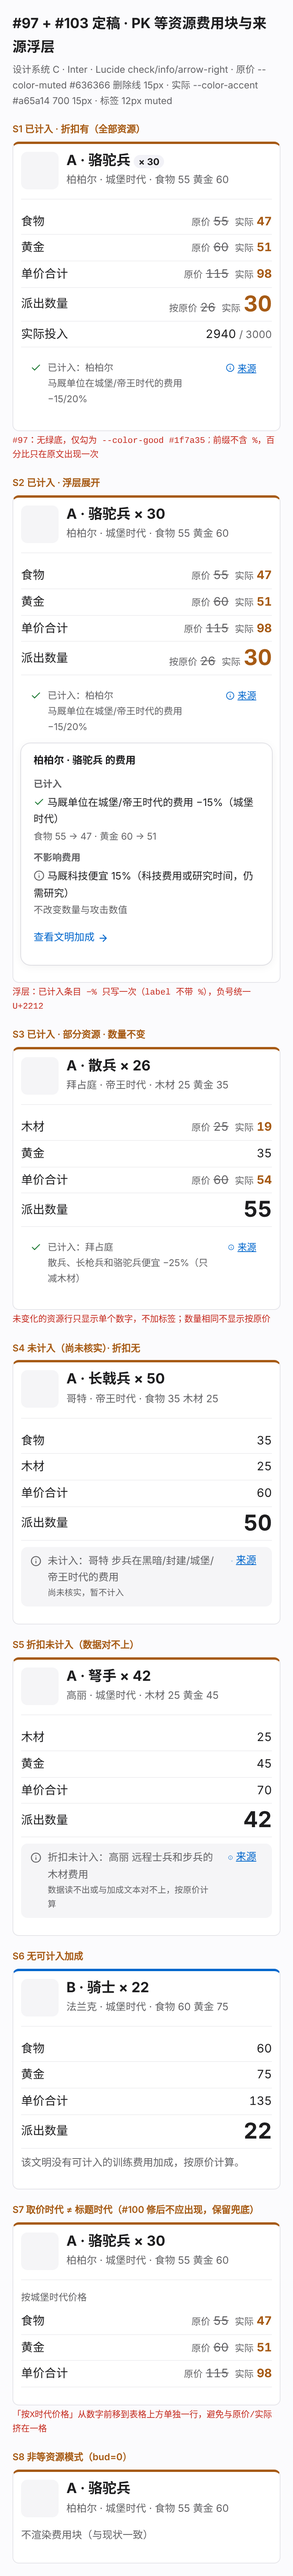
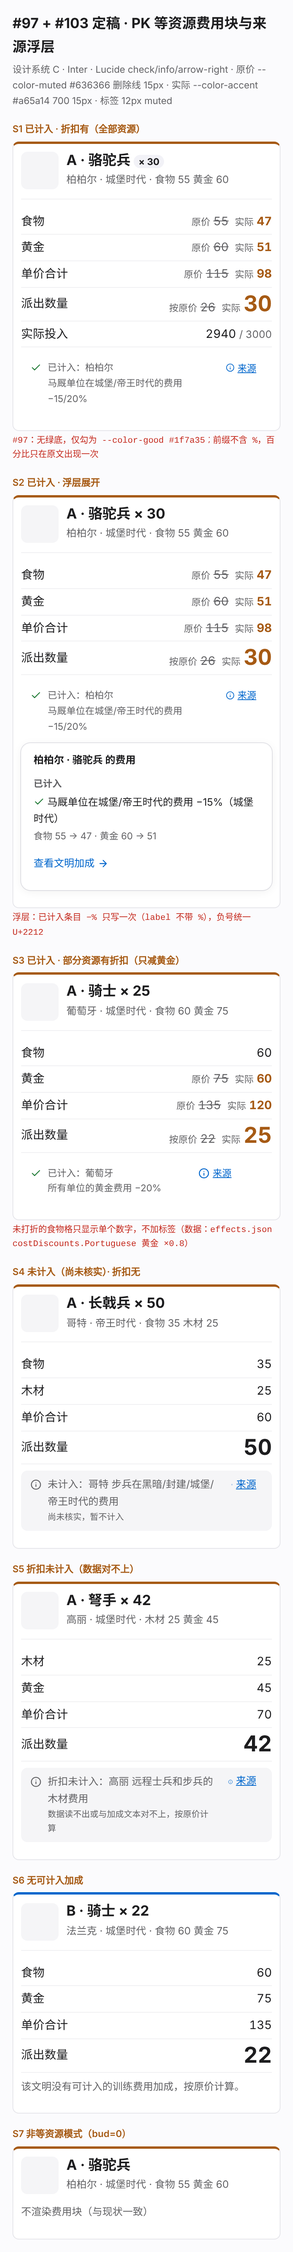
docs(#97): 按评审修改 v0.6.0 定稿（删按时代价格行、#100 定口径、S3 换葡萄牙骑士）

diff --git a/docs/design/mockups/issue97-103-pk-discount/mockup.html b/docs/design/mockups/issue97-103-pk-discount/mockup.html
@@ -13,7 +13,6 @@ table{width:100%;border-collapse:collapse}td{padding:4px 0;border-bottom:1px sol
 td:last-child{text-align:right;font-variant-numeric:tabular-nums}
 
 .pk-cost{margin:12px 0;padding-top:12px;border-top:1px solid var(--color-line)}
-.pk-basis{display:block;color:var(--color-muted);font-size:12px;margin-bottom:4px}
 .lbl{font-size:12px;color:var(--color-muted);margin:0 4px 0 8px}.lbl:first-child{margin-left:0}
 .was{color:var(--color-muted)}.now{color:var(--color-accent);font-weight:700}
 .pk-count td:last-child b{font-size:28px;line-height:1.15}
@@ -27,4 +26,4 @@ td:last-child{text-align:right;font-variant-numeric:tabular-nums}
 .pk-pop h4{margin:0 0 8px;font-size:13px}.pk-pop h5{margin:8px 0 4px;font-size:12px;color:var(--color-muted);font-weight:600}
 .pk-pop p{margin:0 0 4px}.pk-pop p .ic{color:var(--color-good)}.pk-pop p.u .ic{color:var(--color-muted)}.pk-pop small{display:block;color:var(--color-muted);font-size:12px}
 .pk-pop a{display:inline-flex;align-items:center;gap:4px;min-height:44px;color:var(--color-link)}
-</style><h1>#97 + #103 定稿 · PK 等资源费用块与来源浮层</h1><p class="sub">设计系统 C · Inter · Lucide check/info/arrow-right · 原价 --color-muted #636366 删除线 15px · 实际 --color-accent #a65a14 700 15px · 标签 12px muted</p><div class="grid"><div><p class="st">S1 已计入 · 折扣有（全部资源）</p><div class="duel-side"><div class="duel-head"><div class="av"></div><div><h3>A · 骆驼兵 <span style="font-size:12px;background:var(--color-tag);padding:1px 6px;border-radius:999px">× 30</span></h3><span class="note">柏柏尔 · 城堡时代 · 食物 55 黄金 60</span></div></div><div class="pk-cost"><table><tr><td>食物</td><td><span class="lbl">原价</span><s class="was">55</s><span class="lbl">实际</span><b class="now">47</b></td></tr><tr><td>黄金</td><td><span class="lbl">原价</span><s class="was">60</s><span class="lbl">实际</span><b class="now">51</b></td></tr><tr><td>单价合计</td><td><span class="lbl">原价</span><s class="was">115</s><span class="lbl">实际</span><b class="now">98</b></td></tr><tr class=pk-count><td>派出数量</td><td><span class="lbl">按原价</span><s class="was">26</s><span class="lbl">实际</span><b class="now">30</b></td></tr><tr><td>实际投入</td><td>2940 <small class=note>/ 3000</small></td></tr></table><div class="pk-line pk-applied"><svg class="ic" viewBox="0 0 24 24"><path d="M20 6 9 17l-5-5"/></svg><span>已计入：柏柏尔<small class="pk-orig">马厩单位在城堡/帝王时代的费用 −15/20%</small></span><span class="linkish"><svg class="ic" viewBox="0 0 24 24"><circle cx="12" cy="12" r="10"/><path d="M12 16v-4M12 8h.01"/></svg>来源</span></div></div></div><div class=anno>#97：无绿底，仅勾为 --color-good #1f7a35；前缀不含 %，百分比只在原文出现一次</div></div><div><p class="st">S2 已计入 · 浮层展开</p><div class="duel-side"><div class="duel-head"><div class="av"></div><div><h3>A · 骆驼兵 × 30</h3><span class="note">柏柏尔 · 城堡时代 · 食物 55 黄金 60</span></div></div><div class="pk-cost"><table><tr><td>食物</td><td><span class="lbl">原价</span><s class="was">55</s><span class="lbl">实际</span><b class="now">47</b></td></tr><tr><td>黄金</td><td><span class="lbl">原价</span><s class="was">60</s><span class="lbl">实际</span><b class="now">51</b></td></tr><tr><td>单价合计</td><td><span class="lbl">原价</span><s class="was">115</s><span class="lbl">实际</span><b class="now">98</b></td></tr><tr class=pk-count><td>派出数量</td><td><span class="lbl">按原价</span><s class="was">26</s><span class="lbl">实际</span><b class="now">30</b></td></tr></table><div class="pk-line pk-applied"><svg class="ic" viewBox="0 0 24 24"><path d="M20 6 9 17l-5-5"/></svg><span>已计入：柏柏尔<small class="pk-orig">马厩单位在城堡/帝王时代的费用 −15/20%</small></span><span class="linkish"><svg class="ic" viewBox="0 0 24 24"><circle cx="12" cy="12" r="10"/><path d="M12 16v-4M12 8h.01"/></svg>来源</span></div><div class="pk-pop"><h4>柏柏尔 · 骆驼兵 的费用</h4><h5>已计入</h5><p><svg class="ic" viewBox="0 0 24 24"><path d="M20 6 9 17l-5-5"/></svg> 马厩单位在城堡/帝王时代的费用 −15%（城堡时代）<small>食物 55 → 47 · 黄金 60 → 51</small></p><h5>不影响费用</h5><p class="u"><svg class="ic" viewBox="0 0 24 24"><circle cx="12" cy="12" r="10"/><path d="M12 16v-4M12 8h.01"/></svg> 马厩科技便宜 15%（科技费用或研究时间，仍需研究）<small>不改变数量与攻击数值</small></p><a>查看文明加成 <svg class="ic" viewBox="0 0 24 24"><path d="M5 12h14M12 5l7 7-7 7"/></svg></a></div></div></div><div class=anno>浮层：已计入条目 −% 只写一次（label 不带 %），负号统一 U+2212</div></div><div><p class="st">S3 已计入 · 部分资源 · 数量不变</p><div class="duel-side"><div class="duel-head"><div class="av"></div><div><h3>A · 散兵 × 26</h3><span class="note">拜占庭 · 帝王时代 · 木材 25 黄金 35</span></div></div><div class="pk-cost"><table><tr><td>木材</td><td><span class="lbl">原价</span><s class="was">25</s><span class="lbl">实际</span><b class="now">19</b></td></tr><tr><td>黄金</td><td>35</td></tr><tr><td>单价合计</td><td><span class="lbl">原价</span><s class="was">60</s><span class="lbl">实际</span><b class="now">54</b></td></tr><tr class=pk-count><td>派出数量</td><td><b>55</b></td></tr></table><div class="pk-line pk-applied"><svg class="ic" viewBox="0 0 24 24"><path d="M20 6 9 17l-5-5"/></svg><span>已计入：拜占庭<small class="pk-orig">散兵、长枪兵和骆驼兵便宜 −25%（只减木材）</small></span><span class="linkish"><svg class="ic" viewBox="0 0 24 24"><circle cx="12" cy="12" r="10"/><path d="M12 16v-4M12 8h.01"/></svg>来源</span></div></div></div><div class=anno>未变化的资源行只显示单个数字，不加标签；数量相同不显示按原价</div></div><div><p class="st">S4 未计入（尚未核实）· 折扣无</p><div class="duel-side"><div class="duel-head"><div class="av"></div><div><h3>A · 长戟兵 × 50</h3><span class="note">哥特 · 帝王时代 · 食物 35 木材 25</span></div></div><div class="pk-cost"><table><tr><td>食物</td><td>35</td></tr><tr><td>木材</td><td>25</td></tr><tr><td>单价合计</td><td>60</td></tr><tr class=pk-count><td>派出数量</td><td><b>50</b></td></tr></table><div class="pk-line pk-unverified"><svg class="ic" viewBox="0 0 24 24"><circle cx="12" cy="12" r="10"/><path d="M12 16v-4M12 8h.01"/></svg><span>未计入：哥特 步兵在黑暗/封建/城堡/帝王时代的费用<small>尚未核实，暂不计入</small></span><span class="linkish"><svg class="ic" viewBox="0 0 24 24"><circle cx="12" cy="12" r="10"/><path d="M12 16v-4M12 8h.01"/></svg>来源</span></div></div></div></div><div><p class="st">S5 折扣未计入（数据对不上）</p><div class="duel-side"><div class="duel-head"><div class="av"></div><div><h3>A · 弩手 × 42</h3><span class="note">高丽 · 城堡时代 · 木材 25 黄金 45</span></div></div><div class="pk-cost"><table><tr><td>木材</td><td>25</td></tr><tr><td>黄金</td><td>45</td></tr><tr><td>单价合计</td><td>70</td></tr><tr class=pk-count><td>派出数量</td><td><b>42</b></td></tr></table><div class="pk-line pk-unverified"><svg class="ic" viewBox="0 0 24 24"><circle cx="12" cy="12" r="10"/><path d="M12 16v-4M12 8h.01"/></svg><span>折扣未计入：高丽 远程士兵和步兵的木材费用<small>数据读不出或与加成文本对不上，按原价计算</small></span><span class="linkish"><svg class="ic" viewBox="0 0 24 24"><circle cx="12" cy="12" r="10"/><path d="M12 16v-4M12 8h.01"/></svg>来源</span></div></div></div></div><div><p class="st">S6 无可计入加成</p><div class="duel-side side-b"><div class="duel-head"><div class="av"></div><div><h3>B · 骑士 × 22</h3><span class="note">法兰克 · 城堡时代 · 食物 60 黄金 75</span></div></div><div class="pk-cost"><table><tr><td>食物</td><td>60</td></tr><tr><td>黄金</td><td>75</td></tr><tr><td>单价合计</td><td>135</td></tr><tr class=pk-count><td>派出数量</td><td><b>22</b></td></tr></table><p class="note" style="margin:8px 0 0">该文明没有可计入的训练费用加成，按原价计算。</p></div></div></div><div><p class="st">S7 取价时代 ≠ 标题时代（#100 修后不应出现，保留兜底）</p><div class="duel-side"><div class="duel-head"><div class="av"></div><div><h3>A · 骆驼兵 × 30</h3><span class="note">柏柏尔 · 城堡时代 · 食物 55 黄金 60</span></div></div><div class="pk-cost"><span class="pk-basis">按城堡时代价格</span><table><tr><td>食物</td><td><span class="lbl">原价</span><s class="was">55</s><span class="lbl">实际</span><b class="now">47</b></td></tr><tr><td>黄金</td><td><span class="lbl">原价</span><s class="was">60</s><span class="lbl">实际</span><b class="now">51</b></td></tr><tr><td>单价合计</td><td><span class="lbl">原价</span><s class="was">115</s><span class="lbl">实际</span><b class="now">98</b></td></tr></table></div></div><div class=anno>「按X时代价格」从数字前移到表格上方单独一行，避免与原价/实际挤在一格</div></div><div><p class="st">S8 非等资源模式（bud=0）</p><div class="duel-side"><div class="duel-head"><div class="av"></div><div><h3>A · 骆驼兵</h3><span class="note">柏柏尔 · 城堡时代 · 食物 55 黄金 60</span></div></div><p class="note">不渲染费用块（与现状一致）</p></div></div></div>
+</style><h1>#97 + #103 定稿 · PK 等资源费用块与来源浮层</h1><p class="sub">设计系统 C · Inter · Lucide check/info/arrow-right · 原价 --color-muted #636366 删除线 15px · 实际 --color-accent #a65a14 700 15px · 标签 12px muted</p><div class="grid"><div><p class="st">S1 已计入 · 折扣有（全部资源）</p><div class="duel-side"><div class="duel-head"><div class="av"></div><div><h3>A · 骆驼兵 <span style="font-size:12px;background:var(--color-tag);padding:1px 6px;border-radius:999px">× 30</span></h3><span class="note">柏柏尔 · 城堡时代 · 食物 55 黄金 60</span></div></div><div class="pk-cost"><table><tr><td>食物</td><td><span class="lbl">原价</span><s class="was">55</s><span class="lbl">实际</span><b class="now">47</b></td></tr><tr><td>黄金</td><td><span class="lbl">原价</span><s class="was">60</s><span class="lbl">实际</span><b class="now">51</b></td></tr><tr><td>单价合计</td><td><span class="lbl">原价</span><s class="was">115</s><span class="lbl">实际</span><b class="now">98</b></td></tr><tr class=pk-count><td>派出数量</td><td><span class="lbl">按原价</span><s class="was">26</s><span class="lbl">实际</span><b class="now">30</b></td></tr><tr><td>实际投入</td><td>2940 <small class=note>/ 3000</small></td></tr></table><div class="pk-line pk-applied"><svg class="ic" viewBox="0 0 24 24"><path d="M20 6 9 17l-5-5"/></svg><span>已计入：柏柏尔<small class="pk-orig">马厩单位在城堡/帝王时代的费用 −15/20%</small></span><span class="linkish"><svg class="ic" viewBox="0 0 24 24"><circle cx="12" cy="12" r="10"/><path d="M12 16v-4M12 8h.01"/></svg>来源</span></div></div></div><div class=anno>#97：无绿底，仅勾为 --color-good #1f7a35；前缀不含 %，百分比只在原文出现一次</div></div><div><p class="st">S2 已计入 · 浮层展开</p><div class="duel-side"><div class="duel-head"><div class="av"></div><div><h3>A · 骆驼兵 × 30</h3><span class="note">柏柏尔 · 城堡时代 · 食物 55 黄金 60</span></div></div><div class="pk-cost"><table><tr><td>食物</td><td><span class="lbl">原价</span><s class="was">55</s><span class="lbl">实际</span><b class="now">47</b></td></tr><tr><td>黄金</td><td><span class="lbl">原价</span><s class="was">60</s><span class="lbl">实际</span><b class="now">51</b></td></tr><tr><td>单价合计</td><td><span class="lbl">原价</span><s class="was">115</s><span class="lbl">实际</span><b class="now">98</b></td></tr><tr class=pk-count><td>派出数量</td><td><span class="lbl">按原价</span><s class="was">26</s><span class="lbl">实际</span><b class="now">30</b></td></tr></table><div class="pk-line pk-applied"><svg class="ic" viewBox="0 0 24 24"><path d="M20 6 9 17l-5-5"/></svg><span>已计入：柏柏尔<small class="pk-orig">马厩单位在城堡/帝王时代的费用 −15/20%</small></span><span class="linkish"><svg class="ic" viewBox="0 0 24 24"><circle cx="12" cy="12" r="10"/><path d="M12 16v-4M12 8h.01"/></svg>来源</span></div><div class="pk-pop"><h4>柏柏尔 · 骆驼兵 的费用</h4><h5>已计入</h5><p><svg class="ic" viewBox="0 0 24 24"><path d="M20 6 9 17l-5-5"/></svg> 马厩单位在城堡/帝王时代的费用 −15%（城堡时代）<small>食物 55 → 47 · 黄金 60 → 51</small></p><a>查看文明加成 <svg class="ic" viewBox="0 0 24 24"><path d="M5 12h14M12 5l7 7-7 7"/></svg></a></div></div></div><div class=anno>浮层：已计入条目 −% 只写一次（label 不带 %），负号统一 U+2212</div></div><div><p class="st">S3 已计入 · 部分资源有折扣（只减黄金）</p><div class="duel-side"><div class="duel-head"><div class="av"></div><div><h3>A · 骑士 × 25</h3><span class="note">葡萄牙 · 城堡时代 · 食物 60 黄金 75</span></div></div><div class="pk-cost"><table><tr><td>食物</td><td>60</td></tr><tr><td>黄金</td><td><span class="lbl">原价</span><s class="was">75</s><span class="lbl">实际</span><b class="now">60</b></td></tr><tr><td>单价合计</td><td><span class="lbl">原价</span><s class="was">135</s><span class="lbl">实际</span><b class="now">120</b></td></tr><tr class=pk-count><td>派出数量</td><td><span class="lbl">按原价</span><s class="was">22</s><span class="lbl">实际</span><b class="now">25</b></td></tr></table><div class="pk-line pk-applied"><svg class="ic" viewBox="0 0 24 24"><path d="M20 6 9 17l-5-5"/></svg><span>已计入：葡萄牙<small class="pk-orig">所有单位的黄金费用 −20%</small></span><span class="linkish"><svg class="ic" viewBox="0 0 24 24"><circle cx="12" cy="12" r="10"/><path d="M12 16v-4M12 8h.01"/></svg>来源</span></div></div></div><div class=anno>未打折的食物格只显示单个数字，不加标签（数据：effects.json costDiscounts.Portuguese 黄金 ×0.8）</div></div><div><p class="st">S4 未计入（尚未核实）· 折扣无</p><div class="duel-side"><div class="duel-head"><div class="av"></div><div><h3>A · 长戟兵 × 50</h3><span class="note">哥特 · 帝王时代 · 食物 35 木材 25</span></div></div><div class="pk-cost"><table><tr><td>食物</td><td>35</td></tr><tr><td>木材</td><td>25</td></tr><tr><td>单价合计</td><td>60</td></tr><tr class=pk-count><td>派出数量</td><td><b>50</b></td></tr></table><div class="pk-line pk-unverified"><svg class="ic" viewBox="0 0 24 24"><circle cx="12" cy="12" r="10"/><path d="M12 16v-4M12 8h.01"/></svg><span>未计入：哥特 步兵在黑暗/封建/城堡/帝王时代的费用<small>尚未核实，暂不计入</small></span><span class="linkish"><svg class="ic" viewBox="0 0 24 24"><circle cx="12" cy="12" r="10"/><path d="M12 16v-4M12 8h.01"/></svg>来源</span></div></div></div></div><div><p class="st">S5 折扣未计入（数据对不上）</p><div class="duel-side"><div class="duel-head"><div class="av"></div><div><h3>A · 弩手 × 42</h3><span class="note">高丽 · 城堡时代 · 木材 25 黄金 45</span></div></div><div class="pk-cost"><table><tr><td>木材</td><td>25</td></tr><tr><td>黄金</td><td>45</td></tr><tr><td>单价合计</td><td>70</td></tr><tr class=pk-count><td>派出数量</td><td><b>42</b></td></tr></table><div class="pk-line pk-unverified"><svg class="ic" viewBox="0 0 24 24"><circle cx="12" cy="12" r="10"/><path d="M12 16v-4M12 8h.01"/></svg><span>折扣未计入：高丽 远程士兵和步兵的木材费用<small>数据读不出或与加成文本对不上，按原价计算</small></span><span class="linkish"><svg class="ic" viewBox="0 0 24 24"><circle cx="12" cy="12" r="10"/><path d="M12 16v-4M12 8h.01"/></svg>来源</span></div></div></div></div><div><p class="st">S6 无可计入加成</p><div class="duel-side side-b"><div class="duel-head"><div class="av"></div><div><h3>B · 骑士 × 22</h3><span class="note">法兰克 · 城堡时代 · 食物 60 黄金 75</span></div></div><div class="pk-cost"><table><tr><td>食物</td><td>60</td></tr><tr><td>黄金</td><td>75</td></tr><tr><td>单价合计</td><td>135</td></tr><tr class=pk-count><td>派出数量</td><td><b>22</b></td></tr></table><p class="note" style="margin:8px 0 0">该文明没有可计入的训练费用加成，按原价计算。</p></div></div></div><div><p class="st">S7 非等资源模式（bud=0）</p><div class="duel-side"><div class="duel-head"><div class="av"></div><div><h3>A · 骆驼兵</h3><span class="note">柏柏尔 · 城堡时代 · 食物 55 黄金 60</span></div></div><p class="note">不渲染费用块（与现状一致）</p></div></div></div>

diff --git a/docs/design/mockups/issue100-duel-title/mockup.html b/docs/design/mockups/issue100-duel-title/mockup.html
@@ -11,4 +11,4 @@ h1{font-size:18px;margin:0 0 4px}.sub{color:var(--color-muted);font-size:12px;ma
 .anno{font-size:11px;color:#c4281c;font-family:monospace;margin-top:4px}
 table{width:100%;border-collapse:collapse}td{padding:4px 0;border-bottom:1px solid var(--color-line);font-size:var(--fs-body);white-space:nowrap}
 td:last-child{text-align:right;font-variant-numeric:tabular-nums}
-.age{color:var(--color-text-2);font-weight:600}.res{white-space:nowrap}.duel-head>div:last-child{min-width:0}.duel-head .note{display:block;overflow-wrap:anywhere}</style><h1>#100 定稿 · PK 对决卡标题时代</h1><p class="sub">格式：「文明 · 时代 · 费用」，时代取自该侧 URL 参数（与计价同源）。时代文字 13px 600 --color-text-2 #3a3a3c；其余 13px --color-muted #636366；标题 h3 18px 700 --color-text</p><div class="grid"><div><p class="st">T1 参数 .1.</p><div class="note" style="font-family:monospace;font-size:11px;margin-bottom:4px">a=…Franks.1.…</div><div class="duel-side"><div class="duel-head"><div class="av"></div><div><h3>A · 民兵</h3><span class="note">法兰克 · <span class="age">黑暗时代</span> · <span class="res">食物 60 黄金 20</span></span></div></div></div></div><div><p class="st">T2 参数 .2.</p><div class="note" style="font-family:monospace;font-size:11px;margin-bottom:4px">a=…Franks.2.…</div><div class="duel-side"><div class="duel-head"><div class="av"></div><div><h3>A · 长矛兵</h3><span class="note">法兰克 · <span class="age">封建时代</span> · <span class="res">食物 35 木材 25</span></span></div></div></div></div><div><p class="st">T3 参数 .3.</p><div class="note" style="font-family:monospace;font-size:11px;margin-bottom:4px">a=…Franks.3.…</div><div class="duel-side"><div class="duel-head"><div class="av"></div><div><h3>A · 骑士</h3><span class="note">法兰克 · <span class="age">城堡时代</span> · <span class="res">食物 60 黄金 75</span></span></div></div></div></div><div><p class="st">T4 参数 .4.</p><div class="note" style="font-family:monospace;font-size:11px;margin-bottom:4px">a=…Franks.4.…</div><div class="duel-side"><div class="duel-head"><div class="av"></div><div><h3>A · 骑士</h3><span class="note">法兰克 · <span class="age">帝王时代</span> · <span class="res">食物 60 黄金 75</span></span></div></div></div></div><div><p class="st">T5 两侧时代不同 · A</p><div class="note" style="font-family:monospace;font-size:11px;margin-bottom:4px">a=38.Franks.3.f.</div><div class="duel-side"><div class="duel-head"><div class="av"></div><div><h3>A · 骑士</h3><span class="note">法兰克 · <span class="age">城堡时代</span> · <span class="res">食物 60 黄金 75</span></span></div></div></div></div><div><p class="st">T5 两侧时代不同 · B</p><div class="note" style="font-family:monospace;font-size:11px;margin-bottom:4px">b=329.Berbers.4.f.</div><div class="duel-side side-b"><div class="duel-head"><div class="av"></div><div><h3>B · 骆驼兵</h3><span class="note">柏柏尔 · <span class="age">帝王时代</span> · <span class="res">食物 55 黄金 60</span></span></div></div></div><div class=anno>A/B 各显示自己的时代，不互相影响</div></div><div><p class="st">T6 无时代参数（ageSet=false）</p><div class="note" style="font-family:monospace;font-size:11px;margin-bottom:4px">a=38.Franks..f.</div><div class="duel-side"><div class="duel-head"><div class="av"></div><div><h3>A · 骑士</h3><span class="note">法兰克 · <span class="age">帝王时代</span> · <span class="res">食物 60 黄金 75</span></span></div></div></div><div class=anno>缺省按帝王时代，与计价一致</div></div><div><p class="st">T7 上限：最长组合（360 不溢出）</p><div class="note" style="font-family:monospace;font-size:11px;margin-bottom:4px"></div><div class="duel-side side-b"><div class="duel-head"><div class="av"></div><div><h3>B · 精锐骆驼弓骑兵 <span style="font-size:12px;background:var(--color-tag);padding:1px 6px;border-radius:999px">× 99</span></h3><span class="note">美洲印第安（霍德诺肖尼） · <span class="age">帝王时代</span> · <span class="res">食物 50 木材 50 黄金 60</span></span></div></div></div><div class=anno>副标题可折行（overflow-wrap:anywhere），资源组整体不拆；h3 不出现横向滚动</div></div></div>
+.age{color:var(--color-text-2);font-weight:600}.res{white-space:nowrap}.duel-head>div:last-child{min-width:0}.duel-head .note{display:block;overflow-wrap:anywhere}</style><h1>#100 定稿 · PK 对决卡标题时代</h1><p class="sub">格式：「文明 · 时代 · 费用」，时代取自该侧 URL 参数；标题、价格、战斗模拟三者同一时代。时代文字 13px 600 --color-text-2 #3a3a3c；其余 13px --color-muted #636366；标题 h3 18px 700 --color-text</p><div class="grid"><div><p class="st">T1 参数 .1.</p><div class="note" style="font-family:monospace;font-size:11px;margin-bottom:4px">a=…Franks.1.…</div><div class="duel-side"><div class="duel-head"><div class="av"></div><div><h3>A · 民兵</h3><span class="note">法兰克 · <span class="age">黑暗时代</span> · <span class="res">食物 50 黄金 20</span></span></div></div></div></div><div><p class="st">T2 参数 .2.</p><div class="note" style="font-family:monospace;font-size:11px;margin-bottom:4px">a=…Franks.2.…</div><div class="duel-side"><div class="duel-head"><div class="av"></div><div><h3>A · 长矛兵</h3><span class="note">法兰克 · <span class="age">封建时代</span> · <span class="res">食物 35 木材 25</span></span></div></div></div></div><div><p class="st">T3 参数 .3.</p><div class="note" style="font-family:monospace;font-size:11px;margin-bottom:4px">a=…Franks.3.…</div><div class="duel-side"><div class="duel-head"><div class="av"></div><div><h3>A · 骑士</h3><span class="note">法兰克 · <span class="age">城堡时代</span> · <span class="res">食物 60 黄金 75</span></span></div></div></div></div><div><p class="st">T4 参数 .4.</p><div class="note" style="font-family:monospace;font-size:11px;margin-bottom:4px">a=…Franks.4.…</div><div class="duel-side"><div class="duel-head"><div class="av"></div><div><h3>A · 骑士</h3><span class="note">法兰克 · <span class="age">帝王时代</span> · <span class="res">食物 60 黄金 75</span></span></div></div></div></div><div><p class="st">T5 两侧时代不同 · A</p><div class="note" style="font-family:monospace;font-size:11px;margin-bottom:4px">a=38.Franks.3.f.</div><div class="duel-side"><div class="duel-head"><div class="av"></div><div><h3>A · 骑士</h3><span class="note">法兰克 · <span class="age">城堡时代</span> · <span class="res">食物 60 黄金 75</span></span></div></div></div></div><div><p class="st">T5 两侧时代不同 · B</p><div class="note" style="font-family:monospace;font-size:11px;margin-bottom:4px">b=329.Berbers.4.f.</div><div class="duel-side side-b"><div class="duel-head"><div class="av"></div><div><h3>B · 骆驼兵</h3><span class="note">柏柏尔 · <span class="age">帝王时代</span> · <span class="res">食物 55 黄金 60</span></span></div></div></div><div class=anno>A/B 各显示自己的时代，不互相影响</div></div><div><p class="st">T6 无时代参数（ageSet=false）</p><div class="note" style="font-family:monospace;font-size:11px;margin-bottom:4px">a=38.Franks..f.</div><div class="duel-side"><div class="duel-head"><div class="av"></div><div><h3>A · 骑士</h3><span class="note">法兰克 · <span class="age">帝王时代</span> · <span class="res">食物 60 黄金 75</span></span></div></div></div><div class=anno>缺省：标题帝王时代，价格与模拟也按帝王时代</div></div><div><p class="st">T7 上限：最长组合（360 不溢出）</p><div class="note" style="font-family:monospace;font-size:11px;margin-bottom:4px"></div><div class="duel-side side-b"><div class="duel-head"><div class="av"></div><div><h3>B · 精锐施里瓦姆沙骑手 <span style="font-size:12px;background:var(--color-tag);padding:1px 6px;border-radius:999px">× 99</span></h3><span class="note">瞿折罗 · <span class="age">帝王时代</span> · <span class="res">食物 70 黄金 30</span></span></div></div></div><div class=anno>副标题可折行（overflow-wrap:anywhere），资源组整体不拆；h3 不出现横向滚动</div></div></div>

diff --git a/docs/design/mockups/issue100-duel-title/README.md b/docs/design/mockups/issue100-duel-title/README.md
@@ -3,7 +3,13 @@
 `mockup.html` 复刻 `.duel-head`；截图 `duel-title-{360,375,390,1280}.png`（移动端 2x）。
 
 ## 文案
-副标题格式不变：`{文明} · {时代} · {费用}`。**时代取该侧 URL 参数**（`.1.` 黑暗时代 / `.2.` 封建时代 / `.3.` 城堡时代 / `.4.` 帝王时代），与价格栏、盈亏平衡用同一个时代值。缺省参数（`a=38.Franks..f.`）显示「帝王时代」。
+副标题格式不变：`{文明} · {时代} · {费用}`。**时代取该侧 URL 参数**（`.1.` 黑暗时代 / `.2.` 封建时代 / `.3.` 城堡时代 / `.4.` 帝王时代）。
+
+## 定稿口径（Steve 已定）
+- 战斗模拟用每一侧 URL 自己的时代；标题、价格、模拟三者一致。
+- 无时代参数（如 `a=38.Franks..f.`）：标题显示「帝王时代」，价格按帝王时代。
+- 「按X时代价格」一行删除（见 #97/#103 稿）。
+- 现有 N=11 / N=16 锚点用例参数改为 `.4.`；城堡时代另补用例，期望值以 Kent 实测为准。
 
 ## 令牌与数值
 - 标题 h3：18px `--fs-h3` 700，`--color-text` #1d1d1f
@@ -12,12 +18,12 @@
 - 费用组 `.res` 整体 `white-space: nowrap`，副标题允许整段折行（`overflow-wrap:anywhere`），不出现横向滚动
 
 ## 状态清单
-T1–T4 四种时代参数 / T5 A、B 两侧时代不同各自显示 / T6 无时代参数 / T7 上限：最长单位名+最长文明名+× 99（360 不溢出）。
+T1–T4 四种时代参数 / T5 A、B 两侧时代不同各自显示 / T6 无时代参数 / T7 上限：最长单位名（精锐施里瓦姆沙骑手，瞿折罗，食物 70 黄金 30）+ × 99；T1 民兵 50/20、T2 长矛兵 35/25 已按数据更正（360 不溢出）。
 
 ## 验收对照
 | 标准 | 稿中体现 |
 |---|---|
 | .1./.2./.3./.4. 标题时代与参数一一对应 | T1–T4 |
 | A、B 不同时代分别正确 | T5 |
-| 价格栏、盈亏平衡与标题同一时代 | 文案注明同源；见 PR 说明中的待确认点 |
+| 价格栏、盈亏平衡与标题同一时代 | 三者同源（见定稿口径）；锚点改 `.4.` |
 | 四档不溢出 | 截图 scrollWidth = 视口宽度，T7 最长组合 |
